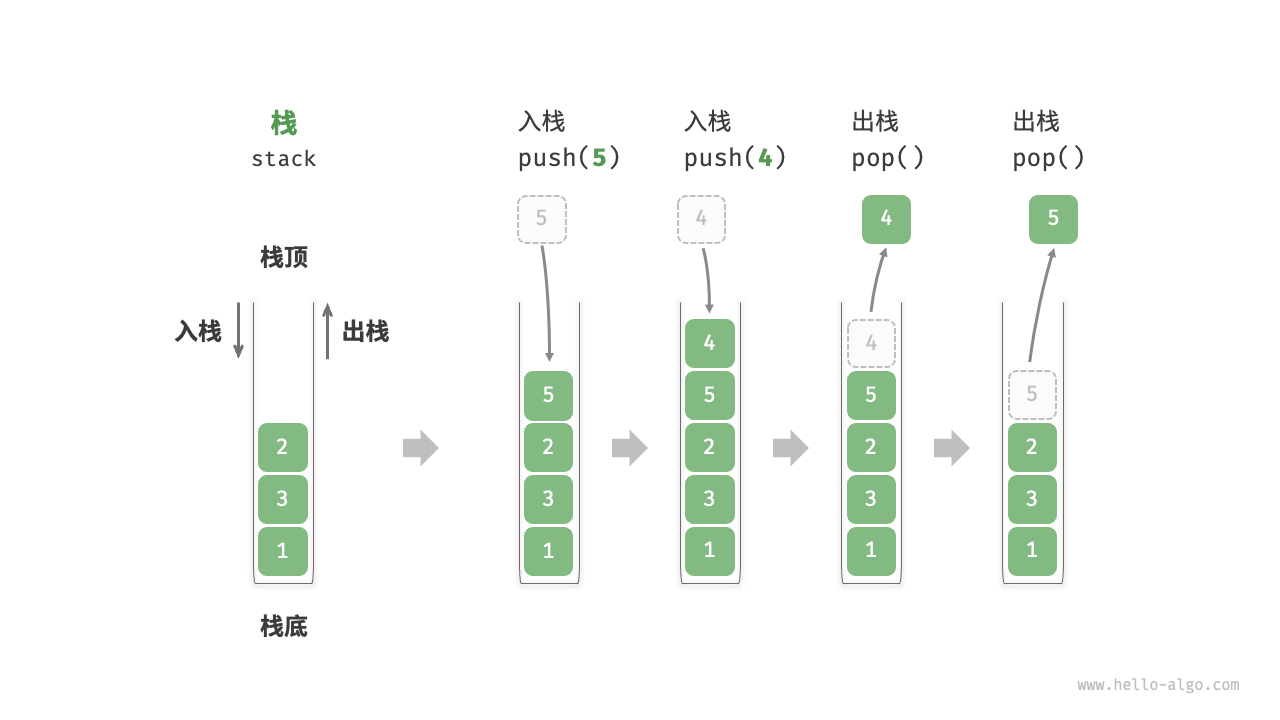
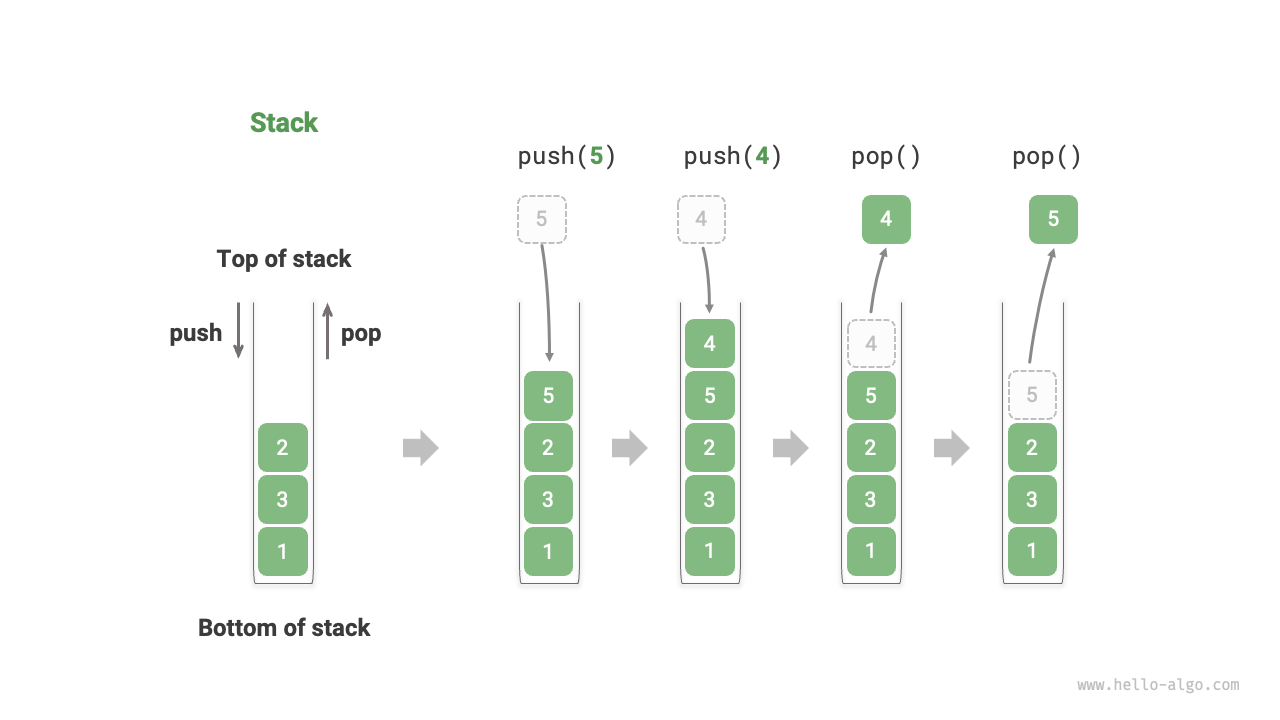
Update the figures for the chapter of stack and queue

diff --git a/docs-en/chapter_stack_and_queue/deque.md b/docs-en/chapter_stack_and_queue/deque.md
@@ -347,19 +347,19 @@ For a double-ended queue, both the head and the tail can perform enqueue and deq
 As shown in the figure below, we treat the head and tail nodes of the doubly linked list as the front and rear of the double-ended queue, respectively, and implement the functionality to add and remove nodes at both ends.
 
 === "LinkedListDeque"
-    ![Implementing Double-Ended Queue with Doubly Linked List for Enqueue and Dequeue Operations](deque.assets/linkedlist_deque.png)
+    ![Implementing Double-Ended Queue with Doubly Linked List for Enqueue and Dequeue Operations](deque.assets/linkedlist_deque_step1.png)
 
 === "pushLast()"
-    ![linkedlist_deque_push_last](deque.assets/linkedlist_deque_push_last.png)
+    ![linkedlist_deque_push_last](deque.assets/linkedlist_deque_step2_push_last.png)
 
 === "pushFirst()"
-    ![linkedlist_deque_push_first](deque.assets/linkedlist_deque_push_first.png)
+    ![linkedlist_deque_push_first](deque.assets/linkedlist_deque_step3_push_first.png)
 
 === "popLast()"
-    ![linkedlist_deque_pop_last](deque.assets/linkedlist_deque_pop_last.png)
+    ![linkedlist_deque_pop_last](deque.assets/linkedlist_deque_step4_pop_last.png)
 
 === "popFirst()"
-    ![linkedlist_deque_pop_first](deque.assets/linkedlist_deque_pop_first.png)
+    ![linkedlist_deque_pop_first](deque.assets/linkedlist_deque_step5_pop_first.png)
 
 The implementation code is as follows:
 
@@ -372,19 +372,19 @@ The implementation code is as follows:
 As shown in the figure below, similar to implementing a queue with an array, we can also use a circular array to implement a double-ended queue.
 
 === "ArrayDeque"
-    ![Implementing Double-Ended Queue with Array for Enqueue and Dequeue Operations](deque.assets/array_deque.png)
+    ![Implementing Double-Ended Queue with Array for Enqueue and Dequeue Operations](deque.assets/array_deque_step1.png)
 
 === "pushLast()"
-    ![array_deque_push_last](deque.assets/array_deque_push_last.png)
+    ![array_deque_push_last](deque.assets/array_deque_step2_push_last.png)
 
 === "pushFirst()"
-    ![array_deque_push_first](deque.assets/array_deque_push_first.png)
+    ![array_deque_push_first](deque.assets/array_deque_step3_push_first.png)
 
 === "popLast()"
-    ![array_deque_pop_last](deque.assets/array_deque_pop_last.png)
+    ![array_deque_pop_last](deque.assets/array_deque_step4_pop_last.png)
 
 === "popFirst()"
-    ![array_deque_pop_first](deque.assets/array_deque_pop_first.png)
+    ![array_deque_pop_first](deque.assets/array_deque_step5_pop_first.png)
 
 The implementation only needs to add methods for "front enqueue" and "rear dequeue":
 

diff --git a/docs-en/chapter_stack_and_queue/stack.md b/docs-en/chapter_stack_and_queue/stack.md
@@ -319,13 +319,13 @@ When implementing a stack using a linked list, we can consider the head node of 
 As shown in the figure below, for the push operation, we simply insert elements at the head of the linked list. This method of node insertion is known as "head insertion." For the pop operation, we just need to remove the head node from the list.
 
 === "LinkedListStack"
-    ![Implementing Stack with Linked List for Push and Pop Operations](stack.assets/linkedlist_stack.png)
+    ![Implementing Stack with Linked List for Push and Pop Operations](stack.assets/linkedlist_stack_step1.png)
 
 === "push()"
-    ![linkedlist_stack_push](stack.assets/linkedlist_stack_push.png)
+    ![linkedlist_stack_push](stack.assets/linkedlist_stack_step2_push.png)
 
 === "pop()"
-    ![linkedlist_stack_pop](stack.assets/linkedlist_stack_pop.png)
+    ![linkedlist_stack_pop](stack.assets/linkedlist_stack_step3_pop.png)
 
 Below is an example code for implementing a stack based on a linked list:
 
@@ -338,13 +338,13 @@ Below is an example code for implementing a stack based on a linked list:
 When implementing a stack using an array, we can consider the end of the array as the top of the stack. As shown in the figure below, push and pop operations correspond to adding and removing elements at the end of the array, respectively, both with a time complexity of $O(1)$.
 
 === "ArrayStack"
-    ![Implementing Stack with Array for Push and Pop Operations](stack.assets/array_stack.png)
+    ![Implementing Stack with Array for Push and Pop Operations](stack.assets/array_stack_step1.png)
 
 === "push()"
-    ![array_stack_push](stack.assets/array_stack_push.png)
+    ![array_stack_push](stack.assets/array_stack_step2_push.png)
 
 === "pop()"
-    ![array_stack_pop](stack.assets/array_stack_pop.png)
+    ![array_stack_pop](stack.assets/array_stack_step3_pop.png)
 
 Since the elements to be pushed onto the stack may continuously increase, we can use a dynamic array, thus avoiding the need to handle array expansion ourselves. Here is an example code:
 

diff --git a/docs-en/chapter_stack_and_queue/queue.md b/docs-en/chapter_stack_and_queue/queue.md
@@ -321,13 +321,13 @@ To implement a queue, we need a data structure that allows adding elements at on
 As shown in the figure below, we can consider the "head node" and "tail node" of a linked list as the "head" and "tail" of the queue, respectively. We restrict the operations so that nodes can only be added at the tail and removed at the head.
 
 === "LinkedListQueue"
-    ![Implementing Queue with Linked List for Enqueue and Dequeue Operations](queue.assets/linkedlist_queue.png)
+    ![Implementing Queue with Linked List for Enqueue and Dequeue Operations](queue.assets/linkedlist_queue_step1.png)
 
 === "push()"
-    ![linkedlist_queue_push](queue.assets/linkedlist_queue_push.png)
+    ![linkedlist_queue_push](queue.assets/linkedlist_queue_step2_push.png)
 
 === "pop()"
-    ![linkedlist_queue_pop](queue.assets/linkedlist_queue_pop.png)
+    ![linkedlist_queue_pop](queue.assets/linkedlist_queue_step3_pop.png)
 
 Below is the code for implementing a queue using a linked list:
 
@@ -349,13 +349,13 @@ With this design, **the effective interval of elements in the array is `[front, 
 Both enqueue and dequeue operations only require a single operation, each with a time complexity of $O(1)$.
 
 === "ArrayQueue"
-    ![Implementing Queue with Array for Enqueue and Dequeue Operations](queue.assets/array_queue.png)
+    ![Implementing Queue with Array for Enqueue and Dequeue Operations](queue.assets/array_queue_step1.png)
 
 === "push()"
-    ![array_queue_push](queue.assets/array_queue_push.png)
+    ![array_queue_push](queue.assets/array_queue_step2_push.png)
 
 === "pop()"
-    ![array_queue_pop](queue.assets/array_queue_pop.png)
+    ![array_queue_pop](queue.assets/array_queue_step3_pop.png)
 
 You might notice a problem: as enqueue and dequeue operations are continuously performed, both `front` and `rear` move to the right and **will eventually reach the end of the array and can't move further**. To resolve this issue, we can treat the array as a "circular array."
 
